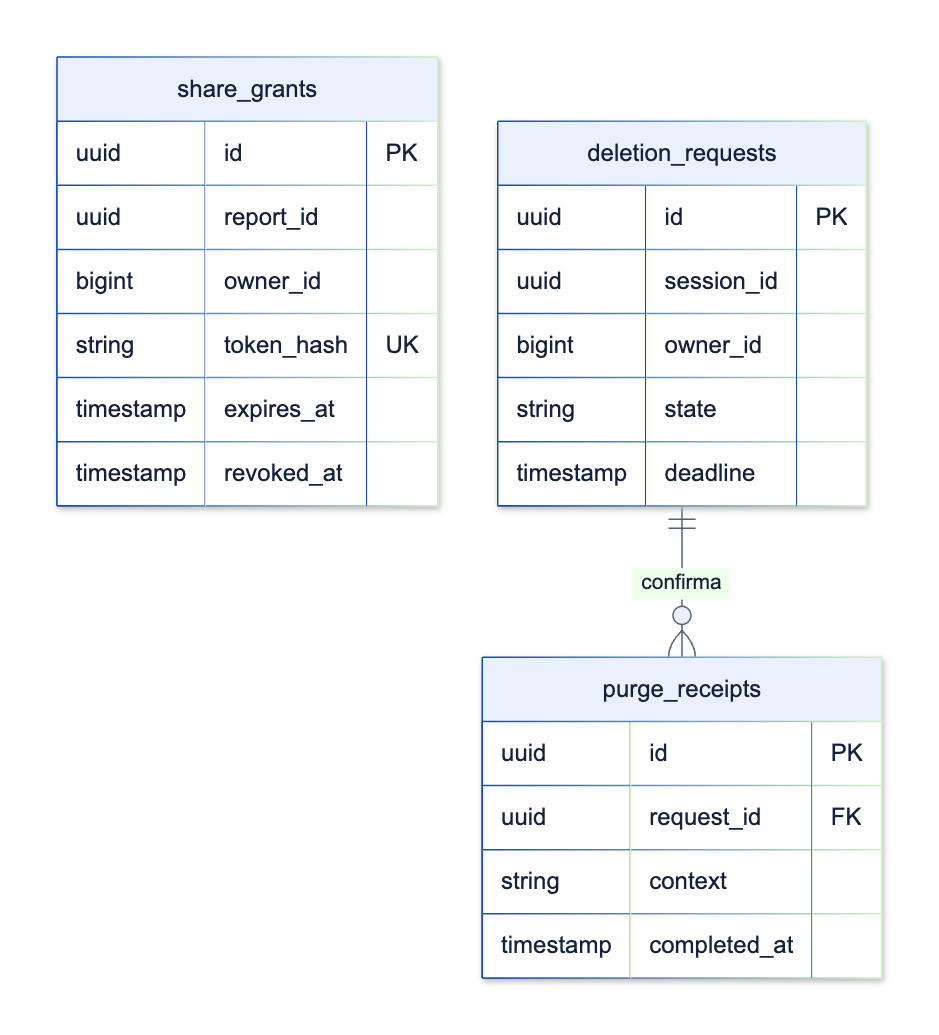
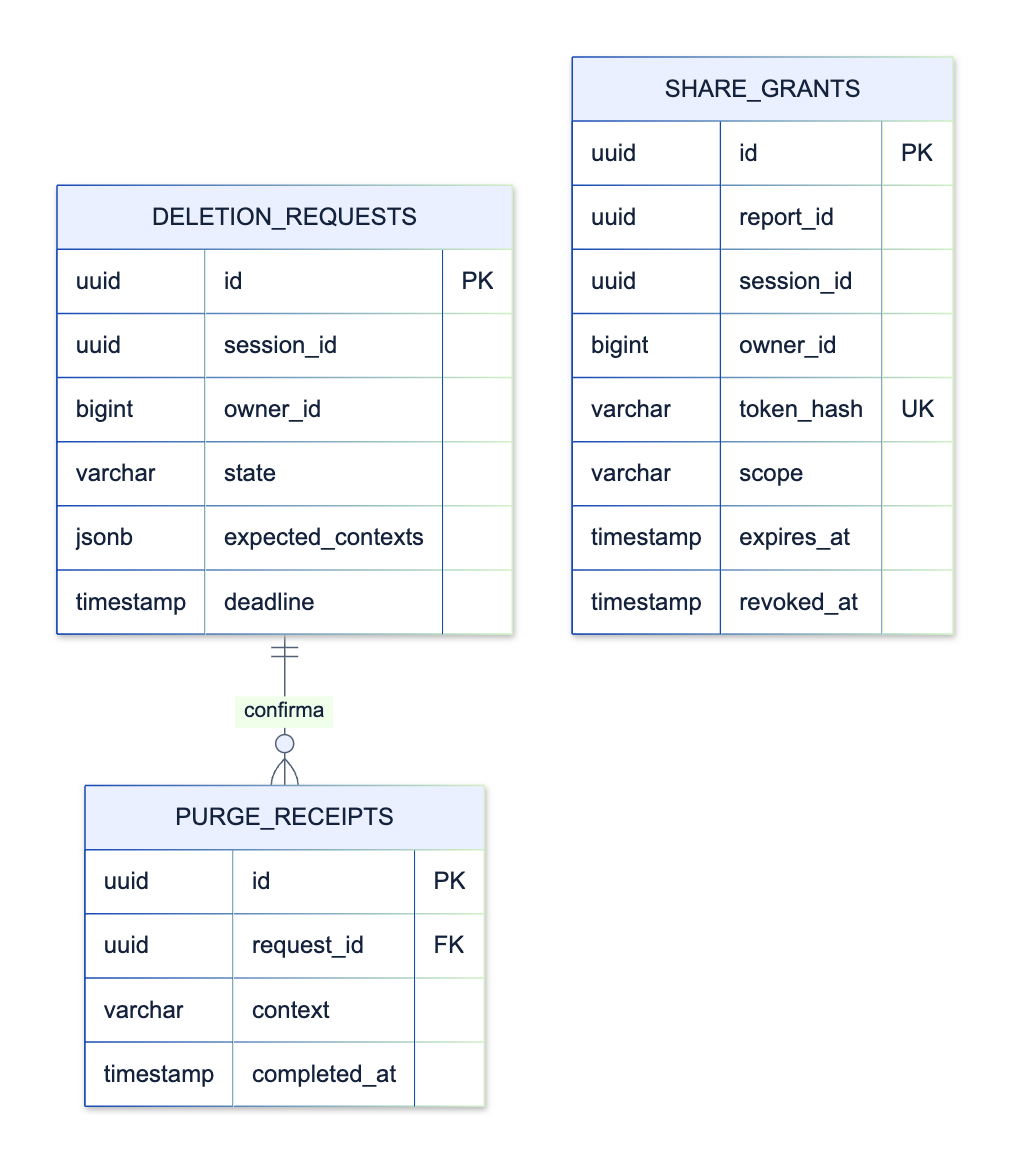
docs(5.6): completa modelos y contratos de Sharing & Retention
Corrección documental y de artefactos del diseño objetivo del TP.

Edición y consolidación: Alejandro Daniel Oroncoy Almeyda.
Revisión asignada: Werner Khalil Lang Nassi. La revisión individual está pendiente y no se acredita aquí como autoría realizada.

diff --git a/README.md b/README.md
@@ -2808,6 +2808,17 @@ PurgeReceipt registra la confirmación de eliminación enviada por cada contexto
 3. Solicitar la eliminación bloquea el acceso al recurso; la eliminación física concluye cuando se reciben las confirmaciones requeridas.
 4. La exportación incluye únicamente información autorizada del reporte.
 
+**Atributos y operaciones del modelo de dominio**
+
+Los atributos se encapsulan; las operaciones públicas expresan las reglas del contexto. Las interfaces y enumeraciones se distinguen en el UML. Este modelo especifica el diseño objetivo del TP.
+
+| Elemento | Atributos o valores | Operaciones públicas |
+| --- | --- | --- |
+| ShareGrant | UUID id<br>UUID reportId<br>UUID sessionId<br>Long ownerId<br>String tokenHash<br>String scope<br>Instant expiresAt<br>Instant revokedAt | isAccessible(Instant now, boolean deleted) boolean<br>revoke(Instant now) void |
+| DeletionRequest | UUID id<br>UUID sessionId<br>Long ownerId<br>DeletionState state<br>Set~String~ expectedContexts<br>Instant deadline | registerReceipt(PurgeReceipt receipt) void<br>isComplete() boolean |
+| DeletionState | REQUESTED<br>ACCESS_BLOCKED<br>PURGING<br>COMPLETED<br>RETRY_REQUIRED | Consulta mediante el agregado o servicio responsable. |
+| PurgeReceipt | UUID id<br>String context<br>Instant completedAt | Consulta mediante el agregado o servicio responsable. |
+
 ### 5.6.2. Interface Layer
 
 Los controladores propuestos reciben las solicitudes de compartir, revocar, exportar y eliminar. Su responsabilidad es identificar al solicitante, validar la estructura de los datos y delegar el caso de uso correspondiente.
@@ -2833,7 +2844,7 @@ La capa de aplicación propuesta coordina la creación de permisos, la consulta 
 
 La creación de un permiso, su revocación y la solicitud de eliminación modifican el estado de ShareGrant o DeletionRequest. La recepción de una confirmación actualiza el avance de la eliminación.
 
-**Queries propuestas**
+**Queries del diseño objetivo**
 
 La lectura compartida comprueba la vigencia del permiso antes de recuperar la vista autorizada del reporte. La exportación prepara únicamente la información que puede consultar el solicitante.
 
@@ -2854,6 +2865,14 @@ Los manejadores propuestos separan cada operación y reúnen las comprobaciones 
 
 **Recorrido del caso de uso.** Compartir genera un permiso temporal; consultar verifica su vigencia y revocación. Eliminar bloquea nuevas consultas y solicita el retiro de los datos a cada contexto responsable. La solicitud se completa cuando se reúnen las confirmaciones esperadas.
 
+**Contratos de coordinación**
+
+| Clase o grupo de clases | Responsabilidad | Operaciones previstas |
+| --- | --- | --- |
+| CreateShareGrantHandler / ResolveSharedReportHandler / RevokeShareHandler / RequestDeletionHandler / CollectPurgeReceiptHandler / ExportReportHandler | Autoriza consultas y coordina permisos, exportación y purga. | createGrant(reportId, expiry); revoke(id); resolve(token); delete(sessionId); collect(receipt); export(reportId) |
+
+Los handlers validan la petición o el evento antes de ejecutar cambios. Los puertos de repositorio y de integración son contratos; los adaptadores de Infrastructure realizan esos contratos. Los nombres describen clases previstas para implementar el diseño, sin afirmar que estén desplegadas.
+
 ### 5.6.4. Infrastructure Layer
 
 La capa de infraestructura propuesta conserva los permisos y solicitudes y comunica la eliminación a los contextos propietarios de los datos.
@@ -2870,7 +2889,16 @@ Los enlaces se conservan mediante un hash. Si no puede comprobarse la vigencia d
 
 ### 5.6.5. Bounded Context Software Architecture Component Level Diagrams
 
-Las solicitudes de compartir, revocar, exportar y eliminar se coordinan mediante casos de uso separados. Los repositorios conservan los permisos y las confirmaciones permiten seguir el avance de la eliminación.
+Esta vista C4 descompone el container de Sharing & Retention definido en 4.3.3. Los elementos externos se sitúan fuera de su frontera; las relaciones indican responsabilidad y protocolo. Las clases siguientes colaboran en los componentes del proceso y mantienen la separación de capas.
+
+| Clases agrupadas en el componente | Capa | Responsabilidad |
+| --- | --- | --- |
+| ShareController / DeletionController / ExportController | Interface | Recibe solicitudes de privacidad y lectura compartida. |
+| CreateShareGrantHandler / ResolveSharedReportHandler / RevokeShareHandler / RequestDeletionHandler / CollectPurgeReceiptHandler / ExportReportHandler | Application | Autoriza consultas y coordina permisos, exportación y purga. |
+| ShareGrant / DeletionRequest / PurgeReceipt | Domain | Controla vigencia, bloqueo y confirmaciones. |
+| ShareGrantRepository / DeletionRequestRepository | Infrastructure | Conserva hashes, solicitudes y confirmaciones. |
+| DeletionPublisher / PurgeReceiptConsumer | Infrastructure | Solicita purga y recibe confirmaciones. |
+| SessionAccessClient / AuthorizedReportClient | Infrastructure | Bloquea sesión y recupera únicamente el reporte autorizado. |
 
 ![Componentes de Sharing & Retention](assets/diagrams/tactical/06-sharing-retention-components.png)
 
@@ -2878,7 +2906,7 @@ Las solicitudes de compartir, revocar, exportar y eliminar se coordinan mediante
 
 #### 5.6.6.1. Bounded Context Domain Layer Class Diagrams
 
-ShareGrant administra la vigencia del acceso. DeletionRequest reúne los registros PurgeReceipt y conserva el estado de la eliminación hasta recibir las confirmaciones necesarias.
+ShareGrant administra vigencia y alcance del acceso. DeletionRequest reúne PurgeReceipt, los contextos esperados y DeletionState. La solicitud avanza desde REQUESTED hasta COMPLETED; si falta una confirmación queda PURGING o RETRY_REQUIRED.
 
 ![Clases de Sharing & Retention](assets/diagrams/tactical/06-sharing-retention-classes.png)
 
@@ -2887,6 +2915,17 @@ ShareGrant administra la vigencia del acceso. DeletionRequest reúne los registr
 share_grants almacena el reporte, propietario, hash del enlace y fechas de vigencia y revocación. deletion_requests registra la solicitud de eliminación y purge_receipts sus confirmaciones. Los registros deben evitar permisos o confirmaciones duplicados. Este esquema corresponde al diseño propuesto.
 
 ![Persistencia de Sharing & Retention](assets/diagrams/tactical/06-sharing-retention-database.png)
+
+**Restricciones de persistencia**
+
+| Objeto | Restricción y relación con las reglas |
+| --- | --- |
+| SHARE_GRANTS | token_hash único; expires_at posterior a creación. Scope limitado al reporte. session_id permite bloquear todos los permisos al eliminar; no se guarda el token en claro. |
+| DELETION_REQUESTS | UNIQUE(session_id), para una solicitud activa de eliminación. expected_contexts conserva los destinatarios que deberán confirmar; estados definidos en UML. |
+| PURGE_RECEIPTS | UNIQUE(request_id, context), FK request_id local. Confirmaciones repetidas no completan dos veces la solicitud. |
+
+La unicidad compuesta se documenta en esta tabla porque comprende varios campos; las marcas PK/FK/UK del diagrama identifican claves simples. Inbox y outbox son registros técnicos del esquema privado: eventId es único en inbox y el despacho confirma la salida después del commit local. No se crean FKs hacia otros contextos.
+
 
 ## 5.7. Bounded Context: Gamification
 
